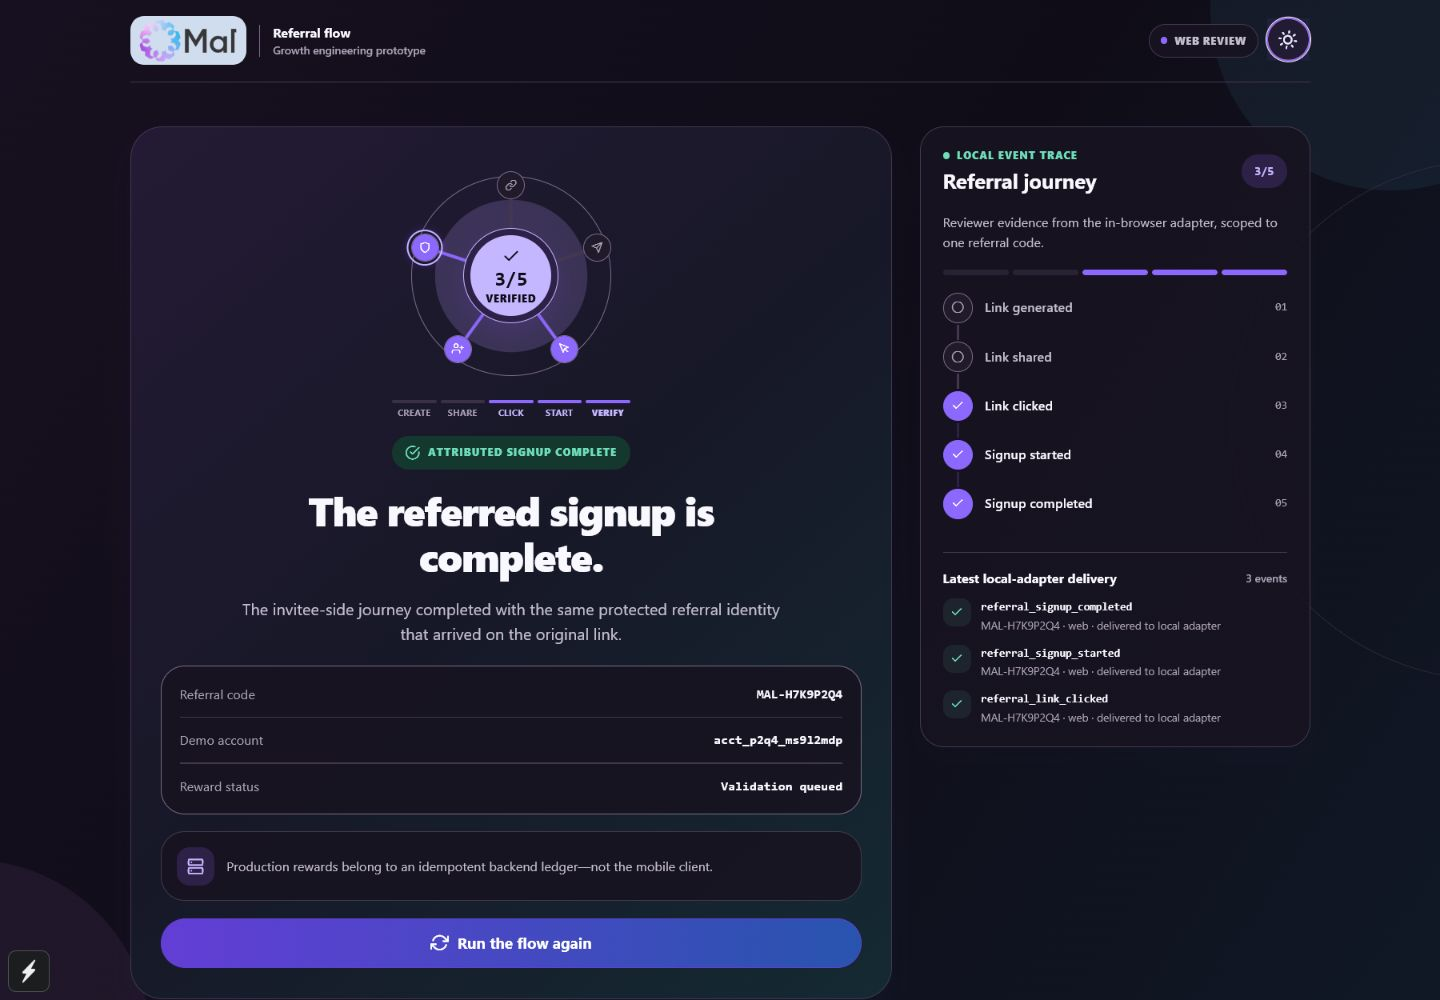
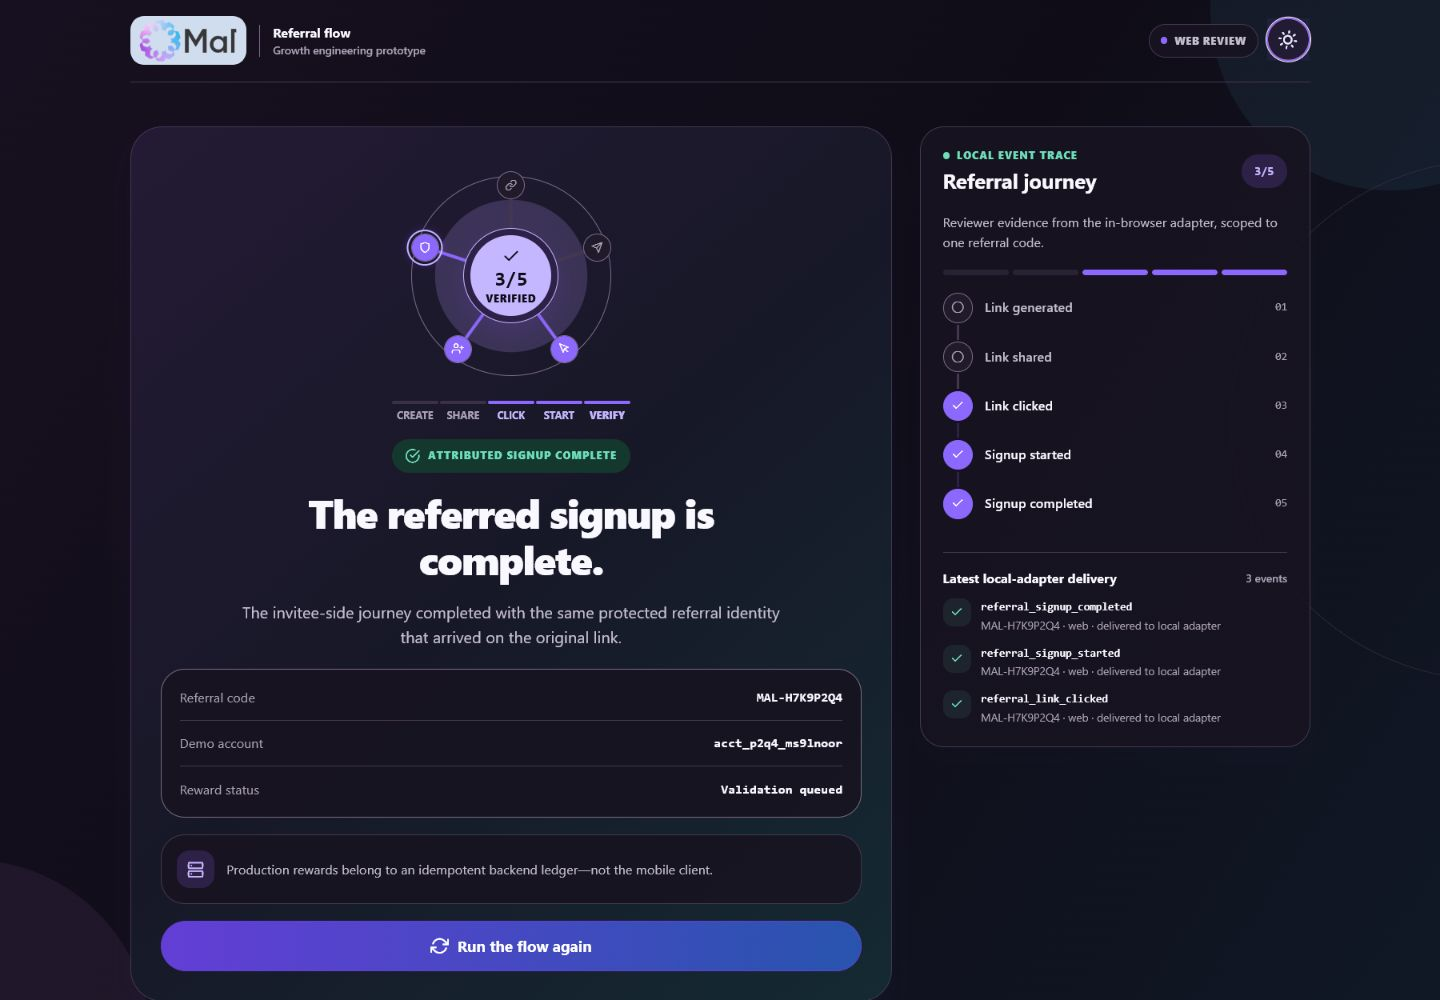
fix: strengthen orbit labels and share recovery

diff --git a/__tests__/runReferralShare.test.ts b/__tests__/runReferralShare.test.ts
@@ -1,0 +1,71 @@
+import { describe, expect, it, jest } from '@jest/globals';
+
+import {
+  runReferralShare,
+  type ShareNotice,
+} from '../src/application/runReferralShare';
+
+describe('referral share UI orchestration', () => {
+  it.each([
+    {
+      result: { status: 'shared', channel: 'clipboard' } as const,
+      expected: {
+        tone: 'success',
+        title: 'Invite copied',
+        message: 'Web Share is unavailable here, so the complete invite was copied to your clipboard.',
+      },
+    },
+    {
+      result: { status: 'cancelled' } as const,
+      expected: {
+        tone: 'info',
+        title: 'Share cancelled',
+        message: 'No success event was recorded.',
+      },
+    },
+    {
+      result: { status: 'failed', reason: 'Clipboard unavailable' } as const,
+      expected: {
+        tone: 'error',
+        title: 'Share failed',
+        message: 'Clipboard unavailable',
+      },
+    },
+  ])('preserves the $result.status result notice and settles sharing', async ({ result, expected }) => {
+    const notices: (ShareNotice | null)[] = [];
+    const sharingStates: boolean[] = [];
+
+    await runReferralShare({
+      executeShare: async () => result,
+      setNotice: (notice) => notices.push(notice),
+      setSharing: (isSharing) => sharingStates.push(isSharing),
+    });
+
+    expect(notices).toEqual([null, expected]);
+    expect(sharingStates).toEqual([true, false]);
+  });
+
+  it('converts an unexpected rejection into a safe notice and always clears sharing', async () => {
+    const notices: (ShareNotice | null)[] = [];
+    const sharingStates: boolean[] = [];
+    const executeShare = jest.fn<() => Promise<never>>().mockRejectedValue(new Error('provider secret'));
+
+    await expect(
+      runReferralShare({
+        executeShare,
+        setNotice: (notice) => notices.push(notice),
+        setSharing: (isSharing) => sharingStates.push(isSharing),
+      }),
+    ).resolves.toBeUndefined();
+
+    expect(notices).toEqual([
+      null,
+      {
+        tone: 'error',
+        title: 'Share failed',
+        message: 'The share action ended unexpectedly. Please try again.',
+      },
+    ]);
+    expect(sharingStates).toEqual([true, false]);
+  });
+});

diff --git a/src/screens/InviteScreen.tsx b/src/screens/InviteScreen.tsx
@@ -13,6 +13,7 @@ import {
 import { commitDemoReset } from '../application/commitDemoReset';
 import { getAcceptedReferralMilestones } from '../application/referralProgress';
 import { useReferralRuntime } from '../application/ReferralRuntime';
+import { runReferralShare } from '../application/runReferralShare';
 import { Button } from '../components/Button';
 import { EventLedger } from '../components/EventLedger';
 import { PageIntro } from '../components/PageIntro';
@@ -108,24 +109,11 @@ export function InviteScreen({ navigation }: Props): React.JSX.Element {
 
   const share = async () => {
     if (!referral) return;
-    setNotice(null);
-    setIsSharing(true);
-    const result = await coordinator.shareReferral(referral);
-    setIsSharing(false);
-    if (result.status === 'shared') {
-      setNotice({
-        tone: 'success',
-        title: result.channel === 'clipboard' ? 'Invite copied' : 'Share sheet opened',
-        message:
-          result.channel === 'clipboard'
-            ? 'Web Share is unavailable here, so the complete invite was copied to your clipboard.'
-            : 'The shared milestone was recorded only after the share action completed.',
-      });
-    } else if (result.status === 'cancelled') {
-      setNotice({ tone: 'info', title: 'Share cancelled', message: 'No success event was recorded.' });
-    } else {
-      setNotice({ tone: 'error', title: 'Share failed', message: result.reason });
-    }
+    await runReferralShare({
+      executeShare: () => coordinator.shareReferral(referral),
+      setNotice,
+      setSharing: setIsSharing,
+    });
   };
 
   const simulate = (kind: 'direct' | 'deferred' | 'invalid') => {

diff --git a/src/application/runReferralShare.ts b/src/application/runReferralShare.ts
@@ -1,0 +1,57 @@
+import type { ShareResult } from '../services/share/shareService';
+
+export interface ShareNotice {
+  tone: 'info' | 'success' | 'error';
+  title: string;
+  message: string;
+}
+
+interface RunReferralShareOptions {
+  executeShare(): Promise<ShareResult>;
+  setNotice(notice: ShareNotice | null): void;
+  setSharing(isSharing: boolean): void;
+}
+
+function getShareNotice(result: ShareResult): ShareNotice {
+  if (result.status === 'shared') {
+    return {
+      tone: 'success',
+      title: result.channel === 'clipboard' ? 'Invite copied' : 'Share sheet opened',
+      message:
+        result.channel === 'clipboard'
+          ? 'Web Share is unavailable here, so the complete invite was copied to your clipboard.'
+          : 'The shared milestone was recorded only after the share action completed.',
+    };
+  }
+
+  if (result.status === 'cancelled') {
+    return {
+      tone: 'info',
+      title: 'Share cancelled',
+      message: 'No success event was recorded.',
+    };
+  }
+
+  return { tone: 'error', title: 'Share failed', message: result.reason };
+}
+
+export async function runReferralShare({
+  executeShare,
+  setNotice,
+  setSharing,
+}: RunReferralShareOptions): Promise<void> {
+  setNotice(null);
+  setSharing(true);
+
+  try {
+    setNotice(getShareNotice(await executeShare()));
+  } catch {
+    setNotice({
+      tone: 'error',
+      title: 'Share failed',
+      message: 'The share action ended unexpectedly. Please try again.',
+    });
+  } finally {
+    setSharing(false);
+  }
+}

diff --git a/src/components/ReferralOrbit.tsx b/src/components/ReferralOrbit.tsx
@@ -31,6 +31,7 @@ const JOURNEY_STAGES = REFERRAL_ORBIT_MILESTONES.map((stage, index) => ({
   icon: STAGE_ICONS[index]!,
 }));
 const STEP_COUNT = JOURNEY_STAGES.length;
+const MIN_STAGE_RAIL_WIDTH = 200;
 
 export function ReferralOrbit({
   activeMilestones,
@@ -364,7 +365,7 @@ export function ReferralOrbit({
 
       <View
         accessibilityLabel="Milestones: Create, Share, Click, Start, Verify"
-        style={[styles.stageRail, { width: size }]}
+        style={[styles.stageRail, { width: Math.max(size, MIN_STAGE_RAIL_WIDTH) }]}
       >
         {JOURNEY_STAGES.map((stage, index) => {
           const complete = acceptedStages[index] ?? false;
@@ -457,14 +458,14 @@ const styles = StyleSheet.create({
     shadowOffset: { width: 0, height: 0 },
     elevation: 8,
   },
-  stageRail: { flexDirection: 'row', gap: 4, marginTop: 5 },
+  stageRail: { flexDirection: 'row', gap: 2, marginTop: 6 },
   stageCell: { flex: 1, minWidth: 0, alignItems: 'center', gap: 5 },
   stageTick: { width: '100%', height: 3, borderRadius: 2 },
   stageLabel: {
     fontFamily: typography.family,
-    fontSize: 8.5,
-    lineHeight: 11,
-    letterSpacing: 0.45,
+    fontSize: 10,
+    lineHeight: 13,
+    letterSpacing: 0.1,
   },
-  stageLabelCompact: { fontSize: 7, lineHeight: 9, letterSpacing: 0.2 },
+  stageLabelCompact: { fontSize: 10, lineHeight: 13, letterSpacing: 0 },
 });
